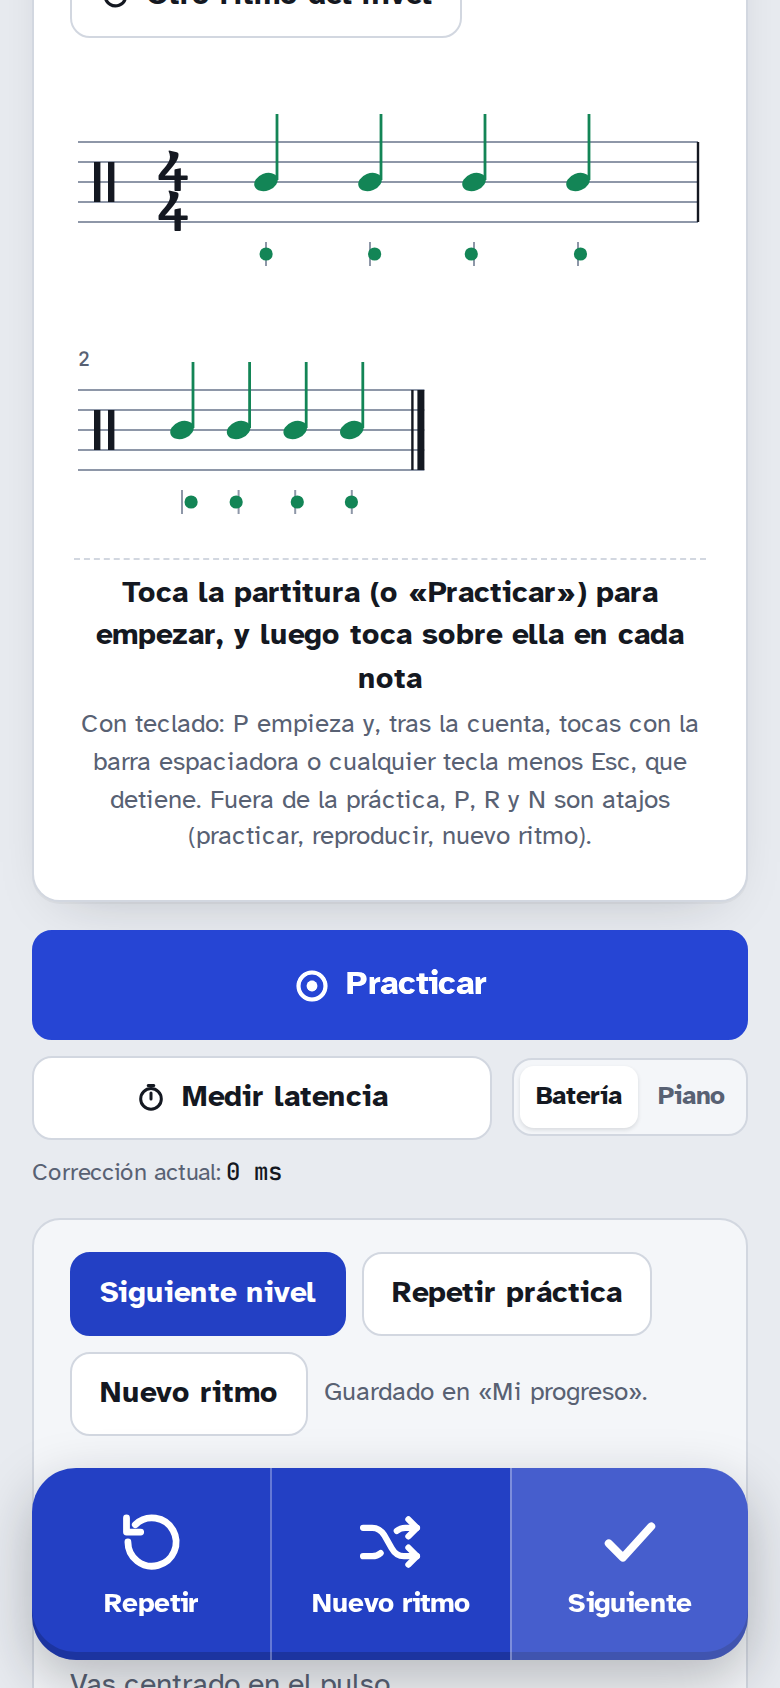
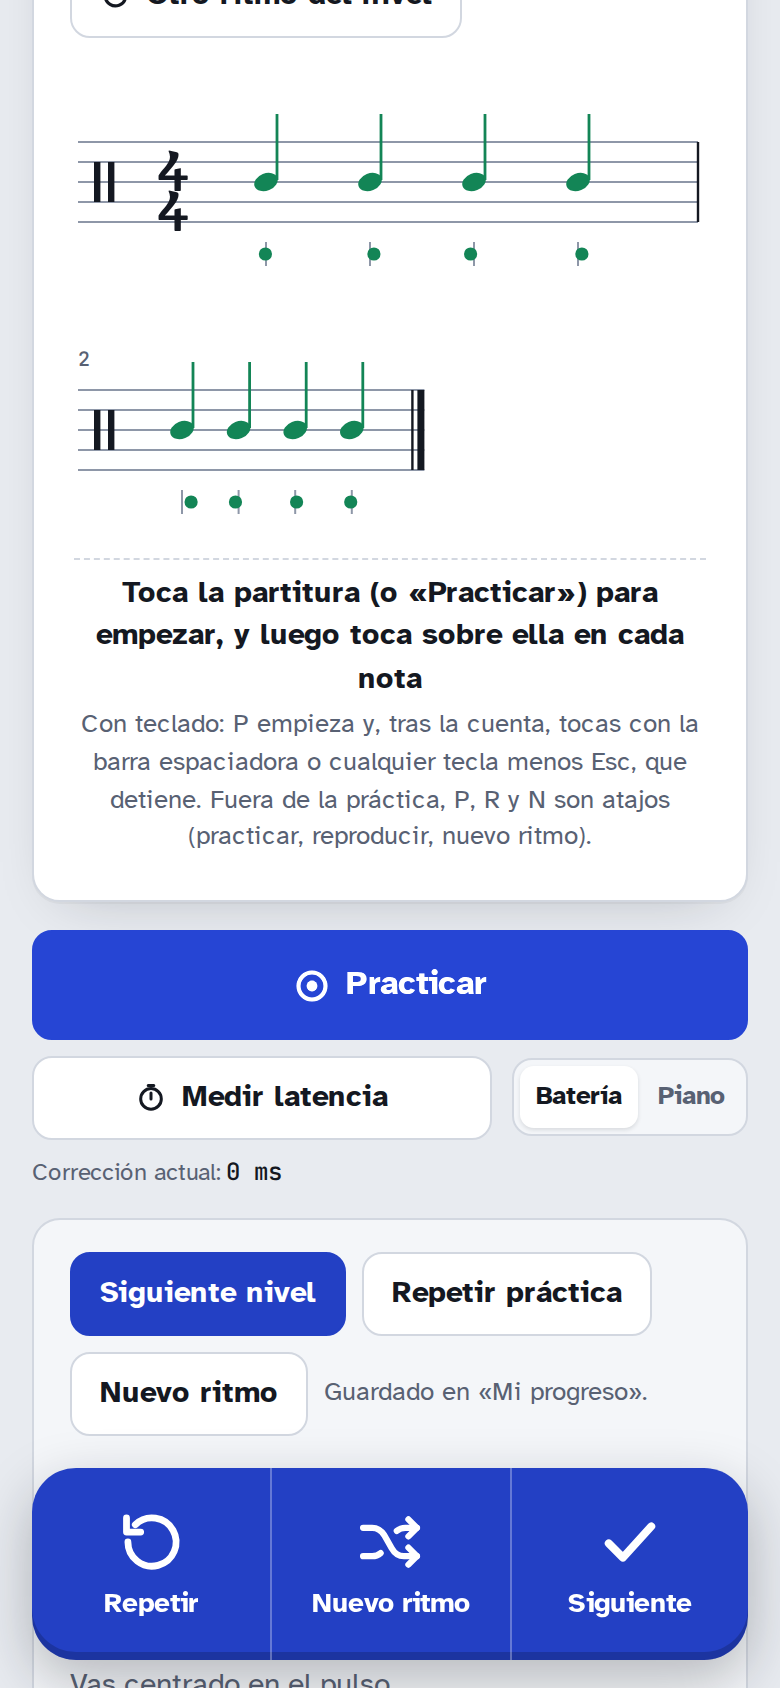
Móvil: «Reiniciar» en el botón flotante y «Practicar» deshabilitado al practicar
Durante la práctica o la medición de latencia, el tercio izquierdo del botón
flotante reinicia si se mantiene pulsado medio segundo (con animación); los
dos tercios derechos siguen siendo la zona de toque.

Claude-Session: https://claude.ai/code/session_01KR51CwVVXhtFmUshsMceNd

Changed region(s): [[0.6462, 0.8626, 0.9846, 0.9858]]

diff --git a/index.html b/index.html
@@ -260,6 +260,7 @@
 </div>
 
 <button type="button" class="fab" id="tapFab" hidden aria-label="Tocar"><span class="fab-main" id="fabMain">Toca aquí</span></button>
+<button type="button" class="fab-restart" id="fabRestart" hidden aria-label="Reiniciar: mantén pulsado medio segundo"><svg viewBox="0 0 24 24" fill="none" stroke="currentColor" stroke-width="2.4" stroke-linecap="round" stroke-linejoin="round" aria-hidden="true"><path d="M3.5 12a8.5 8.5 0 1 0 2.6-6.1"/><path d="M3 3.5v5h5"/></svg><span>Reiniciar</span></button>
 <div class="fab fab-post" id="postFab" role="group" aria-label="Después de la práctica" hidden>
   <button type="button" id="pfAgain"><svg viewBox="0 0 24 24" fill="none" stroke="currentColor" stroke-width="2.4" stroke-linecap="round" stroke-linejoin="round" aria-hidden="true"><path d="M3.5 12a8.5 8.5 0 1 0 2.6-6.1"/><path d="M3 3.5v5h5"/></svg>Repetir</button>
   <button type="button" id="pfNew"><svg viewBox="0 0 24 24" fill="none" stroke="currentColor" stroke-width="2.2" stroke-linecap="round" stroke-linejoin="round" aria-hidden="true"><path d="M2.5 7h3.2c2 0 3.2.9 4.3 2.6l2.6 4.6c1 1.8 2.3 2.8 4.3 2.8h4.6"/><path d="M2.5 17h3.2c1.3 0 2.2-.4 3-1.1"/><path d="M14.4 8.1c.8-.7 1.7-1.1 3-1.1h4.1"/><path d="M18.5 4l3 3-3 3"/><path d="M18.5 14l3 3-3 3"/></svg>Nuevo ritmo</button>
@@ -960,6 +961,8 @@ function updateTransport(){
   $('#bStop').disabled=!r;
   $('#bPlay').classList.toggle('active',r&&m==='play');
   $('#bPractice').classList.toggle('active',r&&m==='practice');
+  // en pantallas táctiles «Practicar» no responde mientras se practica o se mide (un toque desviado la reiniciaría)
+  $('#bPractice').disabled = touchMQ.matches && r && (m==='practice'||m==='calib');
   $('#bCalib').classList.toggle('active',r&&m==='calib');
   $('#bMetro').setAttribute('aria-pressed',String(r&&m==='metro'));
 }
@@ -1095,6 +1098,8 @@ function updateFab(){
   const on=fabWanted() && !post && (live || (!S.running && padInView));
   if(post){ if(pf.hidden){ pf.hidden=false; postSince=performance.now(); } syncPostFab(); } else pf.hidden=true;
   f.hidden=!on; document.body.classList.toggle('fab-on',on||post); f.classList.toggle('idle',on && !live);
+  f.classList.toggle('split',on && live); $('#fabRestart').hidden=!(on && live);
+  if(!(on && live)) restartCancel();
   f.setAttribute('aria-label', live ? 'Tocar' : 'Practicar');
   if(on && !live){ fm.textContent='Practicar'; fm.classList.remove('count'); }
   else if(on && fm.textContent==='Practicar') fm.textContent='Toca aquí';
@@ -1554,6 +1559,22 @@ function bindTapZone(el,pre){
   el.addEventListener('contextmenu',e=>{ if(S.running) e.preventDefault(); });
 }
 bindTapZone($('#pad'),'p'); bindTapZone($('#tapFab'),'f');
+// «Reiniciar» del botón flotante: hay que mantenerlo pulsado medio segundo (la animación dura lo mismo)
+let restartTimer=0;
+function restartCancel(){ clearTimeout(restartTimer); restartTimer=0; $('#fabRestart').classList.remove('arming'); }
+$('#fabRestart').addEventListener('pointerdown',e=>{
+  e.preventDefault(); if(!S.running || e.button>0) return;
+  try{ e.currentTarget.setPointerCapture(e.pointerId); }catch(_){}
+  restartCancel(); void e.currentTarget.offsetWidth; e.currentTarget.classList.add('arming');
+  restartTimer=setTimeout(()=>{
+    restartTimer=0; const m=S.running && S.mode;
+    if(m==='practice'){ start('practice'); say('Práctica reiniciada'); }
+    else if(m==='calib'){ startCalib(); say('Medición reiniciada'); }
+    restartCancel();
+  },500);
+});
+['pointerup','pointercancel','lostpointercapture'].forEach(t=>$('#fabRestart').addEventListener(t,restartCancel));
+$('#fabRestart').addEventListener('contextmenu',e=>e.preventDefault());
 // Botón de tres partes tras la práctica. Se ignoran los toques del primer instante: puede ser el dedo que seguía tocando al terminar
 const postOk=()=>performance.now()-postSince>700;
 $('#pfAgain').addEventListener('click',()=>{ if(postOk()) start('practice'); });

diff --git a/styles.css b/styles.css
@@ -305,6 +305,15 @@ td.num,th.num{text-align:right;font-family:var(--mono);font-variant-numeric:tabu
 @keyframes fabhit{from{transform:translateX(-50%) scale(.965)}to{transform:translateX(-50%) scale(1)}}
 @keyframes fabmiss{from{background:var(--bad)}to{background:var(--accent)}}
 body.fab-on{padding-bottom:140px}
+/* durante la práctica o la medición: «Reiniciar» tapa el tercio izquierdo y se toca en los dos tercios derechos */
+.fab.split{padding-left:calc(100% / 3)}
+.fab-restart{position:fixed;z-index:51;bottom:calc(14px + env(safe-area-inset-bottom));left:calc(50% - min(440px,calc(100vw - 32px)) / 2);width:calc(min(440px,calc(100vw - 32px)) / 3);height:96px;border:0;border-radius:22px 0 0 22px;background:var(--ink);color:var(--paper);display:flex;flex-direction:column;align-items:center;justify-content:center;gap:6px;font:700 14px/1 var(--sans);overflow:hidden;cursor:pointer;touch-action:none;user-select:none;-webkit-user-select:none;-webkit-touch-callout:none;-webkit-tap-highlight-color:transparent}
+.fab-restart > *{position:relative}
+.fab-restart svg{width:30px;height:30px}
+/* hay que mantenerlo pulsado medio segundo: se va llenando y la flecha gira */
+.fab-restart::before{content:"";position:absolute;inset:0;background:color-mix(in srgb,var(--paper) 30%,transparent);transform:scaleX(0);transform-origin:left}
+.fab-restart.arming::before{transform:scaleX(1);transition:transform .5s linear}
+.fab-restart.arming svg{transform:rotate(-360deg);transition:transform .5s ease-in}
 /* tras la práctica: Repetir · Nuevo ritmo · Siguiente (campaña) o Listo (práctica libre) */
 .fab-post{display:grid;grid-template-columns:repeat(3,1fr);align-items:stretch;justify-content:stretch;overflow:hidden;cursor:default;touch-action:manipulation;animation:fabin .2s ease-out}
 .fab-post button{appearance:none;border:0;margin:0;background:transparent;color:inherit;font:700 14px/1.1 var(--sans);display:flex;flex-direction:column;align-items:center;justify-content:center;gap:6px;cursor:pointer;-webkit-tap-highlight-color:transparent}

diff --git a/CLAUDE.md b/CLAUDE.md
@@ -29,7 +29,7 @@ Nació como un Artifact publicado en claude.ai. Allí el progreso se guardaba en
 
 **Empezar tocando:** en reposo, un `click` en la partitura o en el botón flotante llama a `start('practice')` (se usa `click` y no `pointerdown` para que desplazar la página con el dedo no empiece nada; se ignora el clic que cierra un toque empezado durante la práctica).
 
-**Botón flotante (`#tapFab`):** en pantallas táctiles (`(any-pointer: coarse)`) y con `set.fab` activo (por defecto), `updateFab()` lo muestra fijo abajo: en reposo dice «Practicar» y solo aparece si la partitura está a la vista (`IntersectionObserver` → `padInView`); durante la práctica o la medición dice «Toca aquí». Se llama desde `showPad()` y `updateTransport()`. `bindTapZone(el, prefijo)` da a la partitura (`p…`) y al botón (`f…`) el mismo manejo de `pointerdown/up` → `tap`/`release`; `flashPad` y `setHeld` actúan sobre las dos zonas; `showCount` pone también la cuenta en el botón. Con los resultados a la vista (sin práctica en curso y en la vista de práctica), `updateFab()` muestra en su lugar `#postFab`, de tres partes: «Repetir» (`start('practice')`), «Nuevo ritmo» (`generate()`) y el tick, que en la campaña es «Siguiente» (`selectLevel(levelIdx+1)`; apagado si `#rcNext` está oculto; activo se ve igual que los otros dos) y en práctica libre «Listo» (`closeResults()`: oculta los resultados y borra las marcas). `syncPostFab()` pone la etiqueta y el estado del tick. Se ignoran los toques durante los primeros 700 ms (`postSince`), por si el dedo seguía tocando al terminar. Tras ocultar los resultados (`generate`, `measureExcerpt`, `backToFull`, `setView`) se vuelve a llamar a `updateFab()`. `fabReserve()` es el alto que tapa el botón visible y lo descuentan `showPad` y `followScore` para que la línea actual y la siguiente queden por encima.
+**Botón flotante (`#tapFab`):** en pantallas táctiles (`(any-pointer: coarse)`) y con `set.fab` activo (por defecto), `updateFab()` lo muestra fijo abajo: en reposo dice «Practicar» y solo aparece si la partitura está a la vista (`IntersectionObserver` → `padInView`); durante la práctica o la medición dice «Toca aquí». Se llama desde `showPad()` y `updateTransport()`. `bindTapZone(el, prefijo)` da a la partitura (`p…`) y al botón (`f…`) el mismo manejo de `pointerdown/up` → `tap`/`release`; `flashPad` y `setHeld` actúan sobre las dos zonas; `showCount` pone también la cuenta en el botón. Durante la práctica o la medición, `#tapFab` lleva la clase `split` (el texto se corre a los dos tercios derechos) y `#fabRestart` tapa el tercio izquierdo: «Reiniciar» solo actúa si se mantiene pulsado 500 ms (`restartTimer`; la clase `arming` anima el relleno y el giro de la flecha) y entonces llama a `start('practice')` o `startCalib()` sin mostrar resultados; al soltar antes, `restartCancel()`. En pantallas táctiles `updateTransport()` deshabilita «Practicar» (`#bPractice`) mientras se practica o se mide. Con los resultados a la vista (sin práctica en curso y en la vista de práctica), `updateFab()` muestra en su lugar `#postFab`, de tres partes: «Repetir» (`start('practice')`), «Nuevo ritmo» (`generate()`) y el tick, que en la campaña es «Siguiente» (`selectLevel(levelIdx+1)`; apagado si `#rcNext` está oculto; activo se ve igual que los otros dos) y en práctica libre «Listo» (`closeResults()`: oculta los resultados y borra las marcas). `syncPostFab()` pone la etiqueta y el estado del tick. Se ignoran los toques durante los primeros 700 ms (`postSince`), por si el dedo seguía tocando al terminar. Tras ocultar los resultados (`generate`, `measureExcerpt`, `backToFull`, `setView`) se vuelve a llamar a `updateFab()`. `fabReserve()` es el alto que tapa el botón visible y lo descuentan `showPad` y `followScore` para que la línea actual y la siguiente queden por encima.
 
 **Cambio de nivel:** `selectLevel` llama a `centerScore()`, que centra la tarjeta de la partitura en la parte visible (reservando el sitio del botón flotante en móvil) si no se ve entera; si es más alta que el espacio, la deja arriba.
 

diff --git a/README.md b/README.md
@@ -164,6 +164,7 @@ En pantallas pequeñas el panel de opciones pasa debajo de la partitura. En móv
 
 - **En reposo** dice *Practicar* y empieza la práctica (izquierda).
 - **Durante la práctica** dice *Toca aquí* y es donde tocas (centro): no se mueve cuando la partitura cambia de línea, así no tocas fuera por error. Muestra la cuenta previa y, en modo piano, se mantiene pulsado.
+- **Mientras practicas o mides la latencia**, el tercio izquierdo del botón es *Reiniciar*: mantenlo pulsado medio segundo (se va llenando) para empezar de nuevo sin ver resultados. Un toque corto no hace nada, así que no reinicias por error. El botón *Practicar* de la página queda deshabilitado mientras tanto.
 - **Al terminar** se divide en tres (derecha): *Repetir*, *Nuevo ritmo* y, a la derecha, *Siguiente* en la campaña (lleva al siguiente nivel; aparece apagado si no lo has superado) o *Listo* en práctica libre (cierra los resultados y limpia las marcas de la partitura).
 
 Si prefieres tocar sobre la partitura, desactívalo en *Práctica → Botón flotante para tocar*.
